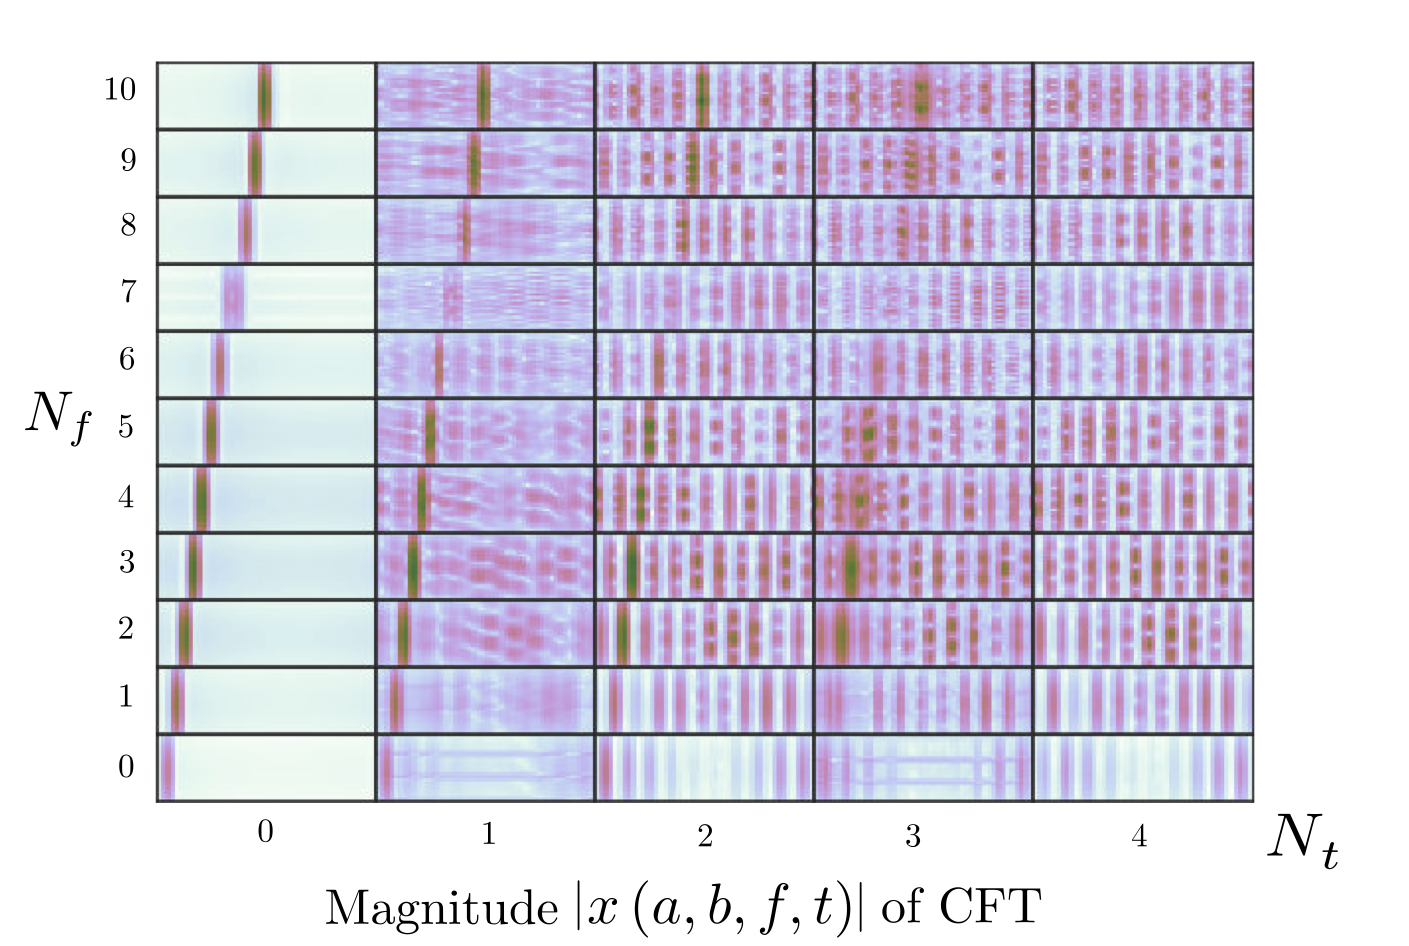
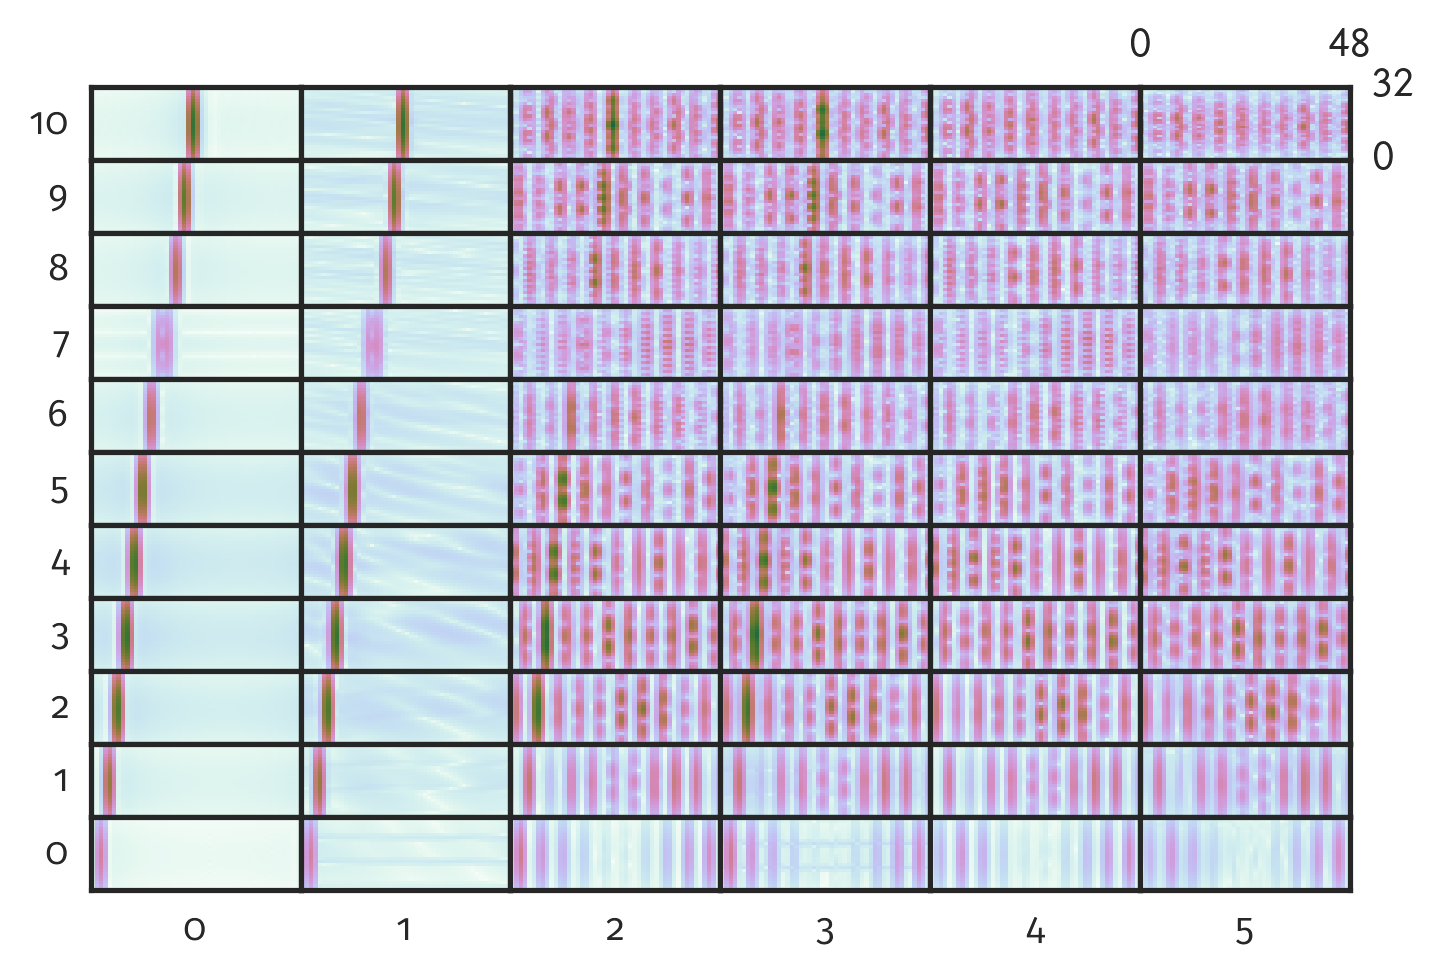
updating plots

diff --git a/data/render_patches.py b/data/render_patches.py
@@ -4,14 +4,58 @@ import itertools
 import soundfile as sf
 import argparse
 import yaml
-import seaborn as sns
-import matplotlib as mpl
-import scipy.signal
 import commonfate
+import matplotlib as mpl
+import seaborn as sns
+import math
 np.random.seed(80)
 
 
 def displaySTFT(X, name=None, limit=None):
+    plt.rc('text', usetex=True)
+    plt.rc('font', family='FiraSans')
+
+    mpl.rcParams['text.latex.preamble'] = [
+        r"\usepackage[sfdefault,scaled=.85]{FiraSans}",
+        r"\usepackage[T1]{fontenc}",
+        r"\usepackage{textcomp}",
+        r"\usepackage[varqu,varl]{zi4}",
+        r"\usepackage{amsmath,amsthm}",
+        r"\usepackage[cmintegrals]{newtxsf}"
+    ]
+    mpl.rcParams['font.family'] = 'sans-serif'
+    mpl.rcParams['font.sans-serif'] = 'FiraSans'
+    mpl.rcParams['text.latex.unicode'] = 'True'
+
+    sns.set()
+    sns.set_context("paper")
+    sns.set_style(
+        "white", {
+            "font.family":
+            "serif", 'font.serif':
+            'ptmrr8re'
+        }
+    )
+
+    fig_width_pt = 244.6937  # Get this from LaTeX using \showthe\columnwidth
+    inches_per_pt = 1.0 / 72.27               # Convert pt to inch
+    golden_mean = (math.sqrt(5) - 1.0) / 2.0         # Aesthetic ratio
+    fig_width = fig_width_pt * inches_per_pt  # width in inches
+    fig_height = fig_width * golden_mean      # height in inches
+    fig_size = np.array([fig_width, fig_height])
+
+    params = {'backend': 'ps',
+              'axes.labelsize': 11,
+              'legend.fontsize': 11,
+              'xtick.labelsize': 10,
+              'ytick.labelsize': 10,
+              'text.usetex': True,
+              'font.family': 'sans-serif',
+              'font.sans-serif': 'FiraSans',
+              'font.size': 11,
+              'figure.figsize': fig_size * 1.6}
+
+    plt.rcParams.update(params)
     fig, ax = plt.subplots(1, 1)
     plt.figure(1)
     plt.pcolormesh(
@@ -26,26 +70,97 @@ def displaySTFT(X, name=None, limit=None):
     if name is None:
         plt.show()
     else:
-        plt.savefig(name)
+        plt.savefig(name, bbox_inches='tight', dpi=300)
 
 
-def displayMSTFT(Z, name=None):
+def displayMSTFT(Z, name=None, tricks=False):
+    plt.rc('text', usetex=True)
+    plt.rc('font', family='FiraSans')
+
+    mpl.rcParams['text.latex.preamble'] = [
+        r"\usepackage[sfdefault,scaled=.85]{FiraSans}",
+        r"\usepackage[T1]{fontenc}",
+        r"\usepackage{textcomp}",
+        r"\usepackage[varqu,varl]{zi4}",
+        r"\usepackage{amsmath,amsthm}",
+        r"\usepackage[cmintegrals]{newtxsf}"
+    ]
+    mpl.rcParams['font.family'] = 'sans-serif'
+    mpl.rcParams['font.sans-serif'] = 'FiraSans'
+    mpl.rcParams['text.latex.unicode'] = 'True'
+
+    sns.set()
+    sns.set_context("paper")
+    sns.set_style(
+        "white", {
+            "font.family":
+            "serif", 'font.serif':
+            'ptmrr8re'
+        }
+    )
+
+    fig_width_pt = 244.6937  # Get this from LaTeX using \showthe\columnwidth
+    inches_per_pt = 1.0 / 72.27               # Convert pt to inch
+    golden_mean = (math.sqrt(5) - 1.0) / 2.0         # Aesthetic ratio
+    fig_width = fig_width_pt * inches_per_pt  # width in inches
+    fig_height = fig_width * golden_mean      # height in inches
+    fig_size = np.array([fig_width, fig_height])
+
+    params = {'backend': 'ps',
+              'axes.labelsize': 11,
+              'legend.fontsize': 11,
+              'xtick.labelsize': 10,
+              'ytick.labelsize': 10,
+              'text.usetex': True,
+              'font.family': 'sans-serif',
+              'font.sans-serif': 'FiraSans',
+              'font.size': 11,
+              'figure.figsize': fig_size * 1.6}
+
+    plt.rcParams.update(params)
     # display a modulation spectrogram, of shape (w1,w2,f,t)
     plt.figure(1)
     (nF, nT) = Z.shape[2:4]
+    f, ax = plt.subplots(nF, nT)
     for (f, t) in itertools.product(range(nF), range(nT)):
-        plt.subplot(nF, nT, (nF-f-1) * nT+t+1)
-        plt.pcolormesh(
-            np.flipud(abs(Z[..., f, t])) ** 0.3,
+        # plt.subplot(nF, nT, (nF-f-1) * nT+t+1)
+        ax[f, t].pcolormesh(
+            np.flipud(abs(Z[..., nF - f - 1, t])) ** 0.3,
             vmin=0,
             vmax=10,
             cmap='cubehelix_r',
         )
-        plt.axis((0, 48, 4, 28))
-        plt.xticks([])
-        plt.xlabel('')
-        plt.yticks([])
-        plt.ylabel('')
+
+        ax[f, t].set_xticks([])
+        ax[f, t].set_xlabel('')
+        ax[f, t].set_yticks([])
+        ax[f, t].set_ylabel('')
+
+        if tricks:
+            ax[f, t].axis((0, 48, 4, 28))
+
+            if f == 0 and t == nT - 1:
+                ax[f, t].yaxis.tick_right()
+                ax[f, t].yaxis.set_label_position("right")
+                ax[f, t].set_yticks([0, 32])
+                ax[f, t].set_ylabel('')
+                ax[f, t].xaxis.tick_top()
+                ax[f, t].xaxis.set_label_position("top")
+                ax[f, t].set_xticks([0, 48])
+                ax[f, t].set_xlabel('')
+
+            if f == nF - 1:
+                ax[f, t].set_xticks([])
+                ax[f, t].set_xlabel(str(t))
+
+            if t == 0:
+                ax[f, t].set_yticks([])
+                ax[f, t].set_ylabel(
+                    str(nF - f - 1),
+                    rotation=0,
+                    verticalalignment='center',
+                    horizontalalignment='right'
+                )
 
     f = plt.gcf()
     f.subplots_adjust(wspace=0, hspace=0)
@@ -53,7 +168,7 @@ def displayMSTFT(Z, name=None):
     if name is None:
         plt.show()
     else:
-        plt.savefig(name)
+        plt.savefig(name, bbox_inches='tight', dpi=300)
 
 
 def process(
@@ -119,14 +234,14 @@ def process(
         estimates_k.append(wavej)
     #
     if display:
-        displaySTFT(At, 'At.png')
-        displaySTFT(xstft, 'stft.png', (0, 279, 0, 352))
-        displaySTFT(stf_k[0], 'stft_k0.png', (0, 279, 0, 352))
-        displaySTFT(stf_k[1], 'stft_k1.png', (0, 279, 0, 352))
-        displayMSTFT(z[..., 0], 'cft.png')
-        displayMSTFT(z_k[0][..., 0], 'cft_k0.png')
-        displayMSTFT(z_k[1][..., 0], 'cft_k1.png')
-        displayMSTFT(P, 'P.png')
+        displaySTFT(At, 'images/At.png')
+        displaySTFT(xstft, 'images/stft.png', (0, 279, 0, 352))
+        displaySTFT(stf_k[0], 'images/stft_k0.png', (0, 279, 0, 352))
+        displaySTFT(stf_k[1], 'images/stft_k1.png', (0, 279, 0, 352))
+        displayMSTFT(z[..., 0], 'images/cft.png', tricks=True)
+        displayMSTFT(z_k[0][..., 0], 'images/cft_k0.png', tricks=True)
+        displayMSTFT(z_k[1][..., 0], 'images/cft_k1.png', tricks=True)
+        displayMSTFT(P, 'images/P.png', tricks=False)
 
 if __name__ == '__main__':
     parser = argparse.ArgumentParser(
